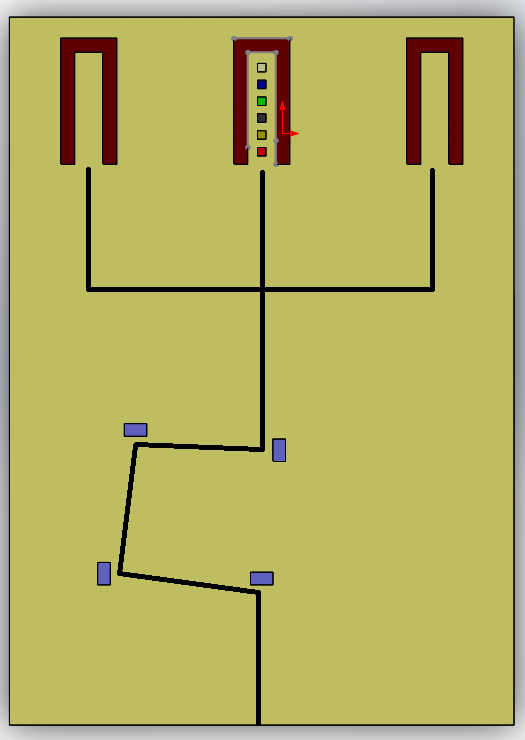
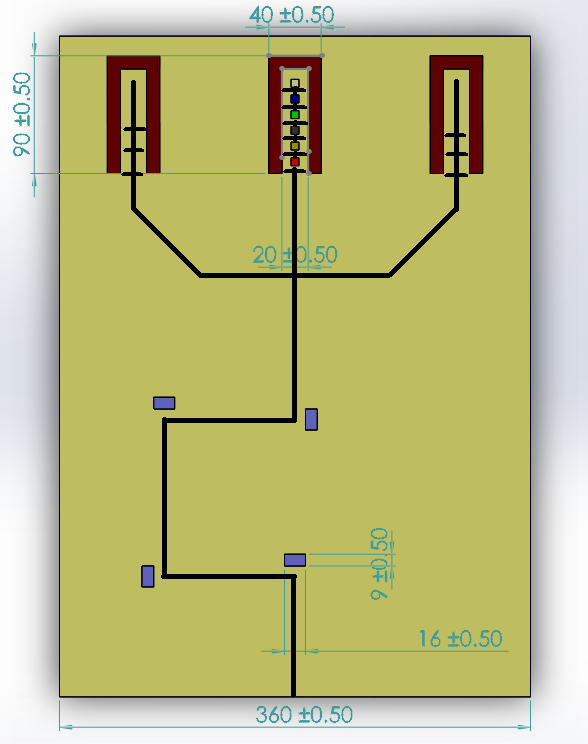
added specs to event stax (#61)

diff --git a/_events/stax.md b/_events/stax.md
@@ -65,9 +65,15 @@ To build a robot which can **rearrange** blocks of different colours from a stac
 
 * The line width for facilitating line following mechanism will be **5 cm**.
 
+* The distance between line edge and the color indicators providing sequence information wll be **10 cm**.
+
+* **Horizontal lines** provided inside the stacks with sufficient gap will act as a marker to stop if required and pick/place the block.
+
 * Dimensions of the arena are to be considered with a maximum tolerance of **10%**.
 
 ![](/img/event/stax/image_3.png){:.img-responsive}
+
+![](/img/event/stax/image_12.png){:.img-responsive}
 
 ![](/img/event/stax/image_4.png){:.img-responsive}
 
@@ -85,15 +91,13 @@ To build a robot which can **rearrange** blocks of different colours from a stac
 
 **Handle:** A handle will be made on top of each block to facilitate lifting as shown in the figure. A free space of **1.5 cm x 6 cm** will be provided inside each handle.
 
-![](/img/event/stax/image_8.png){:.img-responsive} 
+![](/img/event/stax/image_8.png){:.img-responsive}
 
 ![](/img/event/stax/image_9.png){:.img-responsive}
 
 ![](/img/event/stax/image_10.png){:.img-responsive}
 
 ![](/img/event/stax/image_11.png){:.img-responsive}
-
- 
 
 ##### Robot Specification
 
@@ -287,4 +291,3 @@ Ph. no: **+91 9455538734**
 Email: **[aman.chandra@robotix.in](mailto:aman.chandra@robotix.in)**
 
 Ph. no: **+91 8967126457**
-
